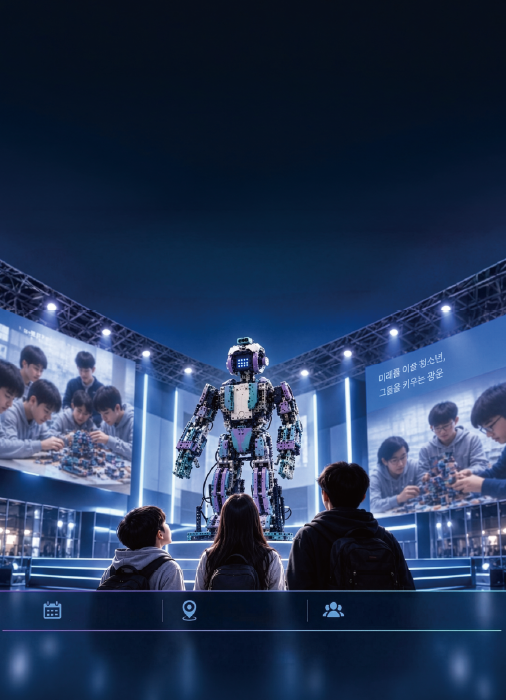
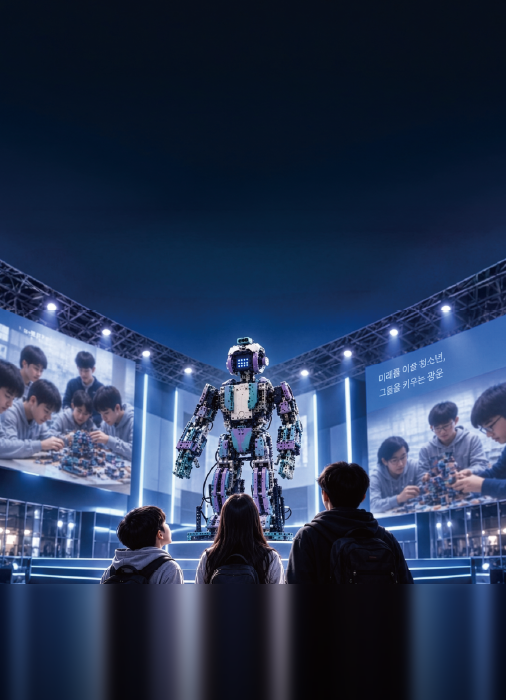
인쇄 바 영역을 바닥색으로 대체하고 후원사 패널을 레퍼런스 위치(87.4~97.6%)로 이동

Changed region(s): [[0.0, 0.81, 1.0, 1.0]]

diff --git a/index.html b/index.html
@@ -47,7 +47,7 @@
 
   /* 표지 (포스터 원본) */
   /* 포스터 한 장 그대로, 화면 높이에 꽉 차게 (세로 기준으로 채우고 좌우만 잘림) */
-  .cover{position:relative;height:100svh;min-height:560px;background:#0a1330 url(cover.png?v=13) center bottom/cover no-repeat;color:#fff}
+  .cover{position:relative;height:100svh;min-height:560px;background:#0a1330 url(cover.png?v=14) center bottom/cover no-repeat;color:#fff}
   .cover-title{position:absolute;inset:8.43% 8% auto;text-align:center}
   .cover-title .rule{height:2px;background:linear-gradient(90deg,rgba(170,200,255,.15),#d6e4ff 50%,rgba(170,200,255,.15));
     box-shadow:0 0 8px rgba(150,190,255,.9),0 0 18px rgba(120,170,255,.6)}
@@ -66,7 +66,7 @@
   .cover-when em{font-style:normal;font-weight:600;color:#e4ebff;margin-left:.35em}
 
   /* 하단: 흰 패널 윗변 = 원본 블러 시작점(82.7%)에 정확히 맞춤 */
-  .cover-spon{position:absolute;left:6.5%;right:6.5%;top:83.6%;height:10.4%;display:flex}
+  .cover-spon{position:absolute;left:6.5%;right:6.5%;top:87.4%;bottom:2.4%;display:flex}
   .cover-spon .cover-logo{position:absolute;left:50%;bottom:100%;transform:translateX(-50%);
     width:25%;max-width:106px;margin:0 0 16px;filter:drop-shadow(0 2px 10px rgba(0,0,0,.65))}
   .spon-panel{flex:1 1 auto;display:flex;align-items:center;gap:clamp(10px,3.4vw,18px);
